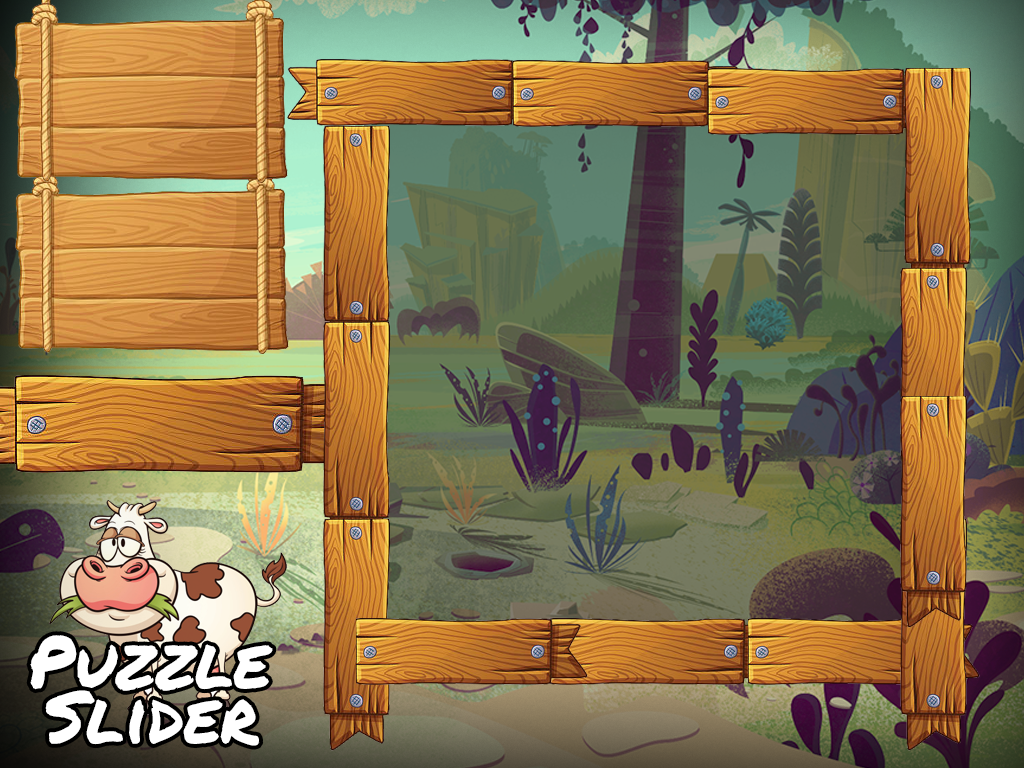
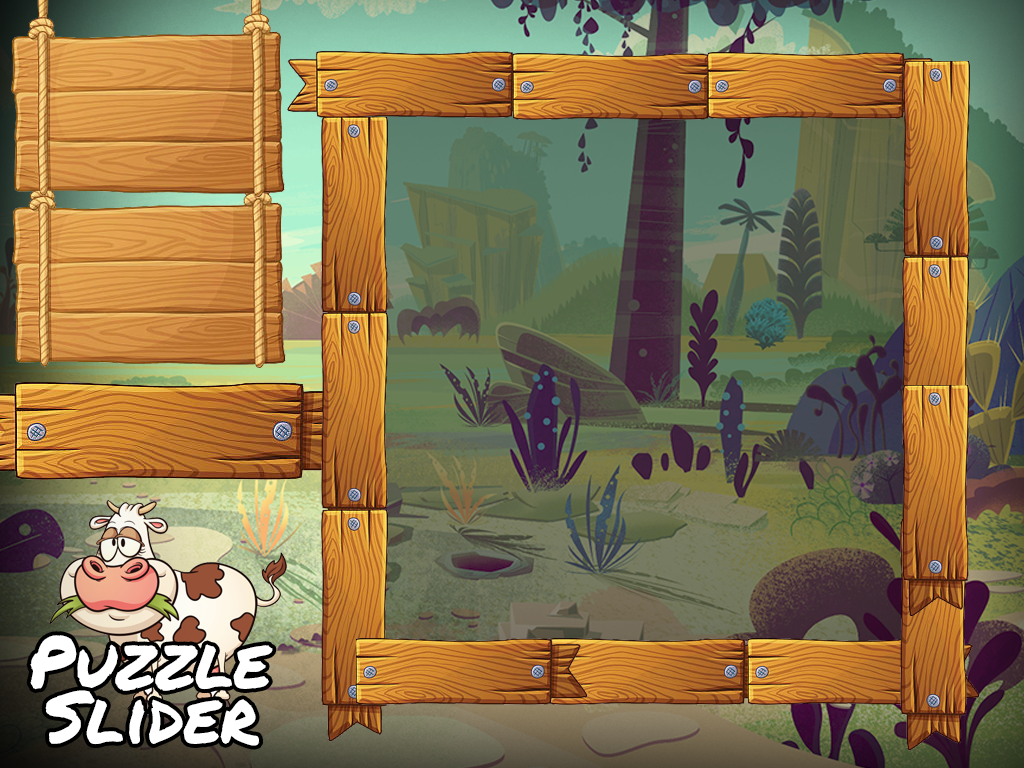
Update game-background.png

Changed region(s): [[0.0, 0.0, 0.9688, 0.9688], [0.9375, 0.8125, 0.9688, 0.9062]]

diff --git a/PuzzleSlider/src/Global/NumericalRepository.java b/PuzzleSlider/src/Global/NumericalRepository.java
@@ -10,11 +10,11 @@ public class NumericalRepository {
 	public static final int LAYOUT_GAME_CANVAS_OFFSET_X = 398;
 	public static final int LAYOUT_GAME_CANVAS_OFFSET_Y = 131;
 	public static final int LAYOUT_GAME_TIME_ELAPSED_OFFSET_X = 60;
-	public static final int LAYOUT_GAME_TIME_ELAPSED_OFFSET_Y = 45;
+	public static final int LAYOUT_GAME_TIME_ELAPSED_OFFSET_Y = 65;
 	public static final int LAYOUT_GAME_MOVE_COUNT_OFFSET_X = 120;
-	public static final int LAYOUT_GAME_MOVE_COUNT_OFFSET_Y = 225;
+	public static final int LAYOUT_GAME_MOVE_COUNT_OFFSET_Y = 235;
 	public static final int LAYOUT_GAME_MENU_BTN_OFFSET_X = 45;
-	public static final int LAYOUT_GAME_MENU_BTN_OFFSET_Y = 365;
+	public static final int LAYOUT_GAME_MENU_BTN_OFFSET_Y = 375;
 	
 	public static final int LAYOUT_MENU_BUTTON_OFFSET_X = 590;
 	
